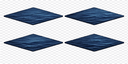
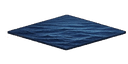
fix: re-split opaque terrain quads into proper 4-variant tiles
The sprite splitter used alpha flood-fill which detected opaque-background
quads (water, deep_water, shallows, shore, river, desert) as a single
sprite, producing one tile with all 4 diamonds crammed together.

Add grid-based fallback: when alpha detection finds only 1 sprite, auto-
split as 2x2 grid. Also auto-remove the white background so tiles have
transparent corners matching the grass/sand tile format.

Add --grid CxR, --remove-bg, and --bg-tolerance flags for explicit control.

Re-split all 6 opaque quads to produce 4 proper variants each (24 tiles).

diff --git a/tools/split_spritesheet.py b/tools/split_spritesheet.py
@@ -1,21 +1,29 @@
 #!/usr/bin/env python3
-"""Split a spritesheet into individual tiles by detecting non-transparent sprites.
+"""Split a spritesheet into individual tiles.
 
-Scans a PNG with transparent background, finds individual sprite bounding boxes
-via alpha-channel connected-component detection, crops each sprite, resizes to
-the target tile size, and saves as numbered PNGs.
+Supports two modes:
+1. Alpha detection (default): Finds sprites via alpha-channel flood-fill for
+   images with transparent backgrounds between sprites.
+2. Grid mode (--grid CxR or auto-fallback): Cuts the image into a uniform
+   grid of columns x rows. Used automatically when alpha detection finds only
+   one sprite (opaque background quads).
 
 Usage:
     python3 tools/split_spritesheet.py <input.png> [options]
 
 Examples:
-    # Split grass quad into 128x64 tiles
+    # Split transparent-background quad (auto-detects 4 sprites)
     python3 tools/split_spritesheet.py assets/raw/terrain/grass_quad.png \\
         --tile-size 128x64 --output-dir assets/tiles/terrain/prototype \\
         --prefix grass_flat
 
-    # Auto-detect sprites at original scale
-    python3 tools/split_spritesheet.py input.png --output-dir out/
+    # Split opaque-background quad (auto-falls back to 2x2 grid)
+    python3 tools/split_spritesheet.py assets/raw/terrain/water_quad.png \\
+        --tile-size 128x64 --output-dir assets/tiles/terrain/prototype \\
+        --prefix water_flat
+
+    # Force grid mode with explicit layout
+    python3 tools/split_spritesheet.py input.png --grid 4x4 --tile-size 128x64
 """
 
 import argparse
@@ -80,6 +88,51 @@ def find_sprite_bboxes(
     return bboxes
 
 
+def grid_bboxes(
+    img: Image.Image, cols: int, rows: int
+) -> list[tuple[int, int, int, int]]:
+    """Split an image into a uniform grid and return bounding boxes.
+
+    Returns (left, top, right, bottom) tuples in row-major order.
+    """
+    cell_w = img.width // cols
+    cell_h = img.height // rows
+    bboxes: list[tuple[int, int, int, int]] = []
+    for r in range(rows):
+        for c in range(cols):
+            left = c * cell_w
+            top = r * cell_h
+            bboxes.append((left, top, left + cell_w, top + cell_h))
+    return bboxes
+
+
+def remove_background(img: Image.Image, tolerance: int = 30) -> Image.Image:
+    """Remove near-uniform background color by sampling corners and making matching pixels transparent.
+
+    Detects the background color from the image corners, then sets all pixels
+    within `tolerance` distance (per channel) of that color to fully transparent.
+    """
+    pixels = img.load()
+    w, h = img.size
+    # Sample corner pixels to determine background color
+    corners = [pixels[0, 0], pixels[w - 1, 0], pixels[0, h - 1], pixels[w - 1, h - 1]]
+    # Use the most common corner color as background
+    bg = max(set(corners), key=corners.count)
+
+    result = img.copy()
+    rpx = result.load()
+    for y in range(h):
+        for x in range(w):
+            r, g, b, a = rpx[x, y]
+            if (
+                abs(r - bg[0]) <= tolerance
+                and abs(g - bg[1]) <= tolerance
+                and abs(b - bg[2]) <= tolerance
+            ):
+                rpx[x, y] = (0, 0, 0, 0)
+    return result
+
+
 def parse_tile_size(s: str) -> tuple[int, int]:
     """Parse 'WxH' string into (width, height) tuple."""
     parts = s.lower().split("x")
@@ -92,6 +145,20 @@ def parse_tile_size(s: str) -> tuple[int, int]:
     if w <= 0 or h <= 0:
         raise argparse.ArgumentTypeError(f"Tile dimensions must be positive, got {w}x{h}")
     return w, h
+
+
+def parse_grid(s: str) -> tuple[int, int]:
+    """Parse 'CxR' string into (columns, rows) tuple."""
+    parts = s.lower().split("x")
+    if len(parts) != 2:
+        raise argparse.ArgumentTypeError(f"Invalid grid '{s}', expected CxR (e.g. 2x2)")
+    try:
+        c, r = int(parts[0]), int(parts[1])
+    except ValueError:
+        raise argparse.ArgumentTypeError(f"Invalid grid '{s}', expected CxR with integers")
+    if c <= 0 or r <= 0:
+        raise argparse.ArgumentTypeError(f"Grid dimensions must be positive, got {c}x{r}")
+    return c, r
 
 
 def main() -> int:
@@ -132,6 +199,28 @@ def main() -> int:
         metavar="PX",
         help="Minimum sprite width/height in pixels to keep (filters artifacts, default: 16)",
     )
+    parser.add_argument(
+        "--grid",
+        type=parse_grid,
+        default=None,
+        metavar="CxR",
+        help="Force grid-based splitting with CxR columns x rows (e.g. 2x2). "
+        "Skips alpha detection entirely.",
+    )
+    parser.add_argument(
+        "--remove-bg",
+        action="store_true",
+        default=False,
+        help="Remove background color (sampled from corners) and make transparent. "
+        "Applied automatically when falling back to grid mode for opaque quads.",
+    )
+    parser.add_argument(
+        "--bg-tolerance",
+        type=int,
+        default=30,
+        metavar="N",
+        help="Per-channel tolerance for background removal (default: 30)",
+    )
     args = parser.parse_args()
 
     # Resolve paths relative to project root
@@ -156,16 +245,35 @@ def main() -> int:
     print(f"Input: {input_path} ({img.width}x{img.height})")
 
     # Detect sprites
-    bboxes = find_sprite_bboxes(img, alpha_threshold=args.alpha_threshold, min_sprite_size=args.min_size)
-    if not bboxes:
-        print("No sprites detected — image may be fully transparent.", file=sys.stderr)
-        return 1
+    do_remove_bg = args.remove_bg
+    if args.grid:
+        cols, rows = args.grid
+        bboxes = grid_bboxes(img, cols, rows)
+        print(f"Grid mode: {cols}x{rows} = {len(bboxes)} tile(s)")
+    else:
+        bboxes = find_sprite_bboxes(img, alpha_threshold=args.alpha_threshold, min_sprite_size=args.min_size)
+        if not bboxes:
+            print("No sprites detected — image may be fully transparent.", file=sys.stderr)
+            return 1
+        if len(bboxes) == 1:
+            # Opaque background — alpha detection found the whole image as one sprite.
+            # Fall back to 2x2 grid split and auto-enable background removal.
+            print("Alpha detection found 1 sprite (opaque background) — falling back to 2x2 grid")
+            bboxes = grid_bboxes(img, 2, 2)
+            do_remove_bg = True
+        else:
+            print(f"Detected {len(bboxes)} sprite(s)")
 
-    print(f"Detected {len(bboxes)} sprite(s)")
+    if do_remove_bg:
+        print(f"Background removal enabled (tolerance={args.bg_tolerance})")
 
     # Crop and save
     for i, bbox in enumerate(bboxes, start=1):
         sprite = img.crop(bbox)
+
+        if do_remove_bg:
+            sprite = remove_background(sprite, tolerance=args.bg_tolerance)
+
         w, h = sprite.size
         label = f"{prefix}_{i:02d}.png"
 
